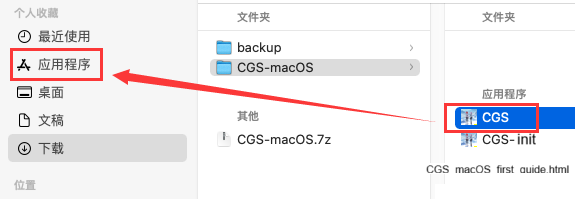
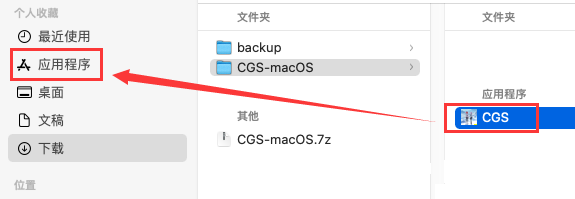
fix: use Qlocale instead of normal locale;mac releated

Changed region(s): [[0.7391, 0.8141, 1.0, 0.8744], [0.7983, 0.6633, 0.9461, 0.7538]]

diff --git a/assets/res/__init__.py b/assets/res/__init__.py
@@ -3,8 +3,9 @@
 import gettext
 import pathlib
 import hashlib
-import locale
 import types
+
+from PyQt5.QtCore import QLocale
 
 from assets.res.transfer import main as translation_compile
 
@@ -18,18 +19,14 @@ from assets.res.transfer import main as translation_compile
 
 
 def getUserLanguage():
-    """locale.getlocale() get `ISO 639-1`_`ISO 3166-1`
-    return `RFC 1766`"""
-    sys_lang, _ = locale.getlocale()
-    match sys_lang.split('_')[0]:
-        case 'Chinese (Simplified)' | 'zh_CN':
-            return 'zh-CN'
-        case _:
-            return 'en-US'
+    sys_lang = QLocale.system().name()
+    if _path.joinpath(f'locale/{sys_lang}.yml').exists():
+        return sys_lang
+    return 'en_US'
+
 
 _path = pathlib.Path(__file__).parent
 lang = getUserLanguage()
-# lang = 'en-US'
 
 
 def is_compiled():

diff --git a/docs/dev/i18n.md b/docs/dev/i18n.md
@@ -6,15 +6,23 @@ Translation hosting by [Weblate](https://hosted.weblate.org/engage/comicguispide
 
 ## Development
 
+检查当前语言环境 / Check lang env
+
+```python
+python3 -c "from PyQt5.QtCore import QLocale;print(QLocale.system().name())"
+```
+
+> [!Tip]  
+> 没找到对应语言编码的翻译文件时会默认使用 `en_US`  
+> If not yml file of your lang exists, default `en_US` will be used
+
 ### Ui
 
-翻译仅需处理单个 yaml 文件如 [`en_US.yaml`](https://github.com/jasoneri/ComicGUISpider/blob/GUI//assets/res/locale/en-US.yml)，  
-编译翻译的流程会在客户端使用时自动实现，除下文提及 Usage-ui 的一小点以外无需将精力放编译上  
-也可以阅读 [`transfer.py`](https://github.com/jasoneri/ComicGUISpider/blob/GUI//assets/res/transfer.py) 查看编译流程如何生成 res.mo
+翻译仅需处理单个 yaml 文件如 [`en_US.yaml`](https://github.com/jasoneri/ComicGUISpider/blob/GUI//assets/res/locale/en_US.yml)，  
+编译翻译的流程会在客户端使用时自动实现，无需将精力放编译上  
 
-Translation only needs to handle single yaml file such as [`en_US.yaml`](https://github.com/jasoneri/ComicGUISpider/blob/GUI//assets/res/locale/en-US.yml)  
-The compilation process of translation will be automatically implemented when the client is used, except for a small point mentioned in Usage-ui, there is no need to focus on compilation
-You can also read [`transfer.py`](https://github.com/jasoneri/ComicGUISpider/blob/GUI//assets/res/transfer.py) to see how the res.mo is generated
+Translation only needs to handle single yaml file such as [`en_US.yaml`](https://github.com/jasoneri/ComicGUISpider/blob/GUI//assets/res/locale/en_US.yml)  
+The compilation process of translation will be automatically implemented when the client is used, there is no need to focus on compilation
 
 ### Documentation
 
@@ -25,21 +33,6 @@ documents are stored in the `docs` directory, which will be made into `github pa
 Reference English storage path is `docs/locate/en/*`
 
 ## Usage
-
-### ui
-
-软件在开启时，会通过 [`assets/res/__init__.py`](https://github.com/jasoneri/ComicGUISpider/blob/GUI//assets/res/__init__.py) 中的 `getUserLanguage` 函数获取当前机器的语言如 `Chinese (Simplified)_China.utf8`（ISO 639-1_ISO 3166-1.encoding），
-检测转换成 RFC1766 标准如 `zh-CN` ，并加载 *.mo 模块进行语言切换。  
-
-> [!Tip] 若进行了语言开发  
-> 需在 `getUserLanguage` 中增加对应的 `RFC1766` 转换，否则默认使用 `en-US`  
-
-The software will get the current machine language such as `Chinese (Simplified)_China.utf8` (ISO 639-1_ISO 3166-1.encoding)
-through the `getUserLanguage` function in [`assets/res/__init__.py`](https://github.com/jasoneri/ComicGUISpider/blob/GUI//assets/res/__init__.py) when it starts,
-machine language will convert to the RFC1766 standard such as `zh-CN`, and load the corresponding *.mo module for language switching.  
-
-> [!Tip] If language development has been carried out  
-> you need to add the corresponding `RFC1766` conversion in `getUserLanguage`, otherwise the default `en-US` is used
 
 ### crawler
 

diff --git a/docs/deploy/mac-required-reading.md b/docs/deploy/mac-required-reading.md
@@ -15,8 +15,8 @@ python -c "import platform; print(platform.machine())"
 1. 英特尔i系，`x86_64` 架构（开发者虚拟机架构）  
 2. 苹果m系，`arm64` 架构
 
-`v2.2.3` 以后使用 github-action 自动使用 Platypus 打包，并优化了脚本命令，  
-理论上兼容两种芯片了，作为保留，下文中列出一些[应对`CGS.app`无法打开](#针对弹窗报错的尝试)的处理方案  
+`v2.2.3` 以后优化了脚本命令，理论上兼容两种芯片了，  
+作为保留，下文中列出一些[应对`CGS.app`无法打开](#针对弹窗报错的尝试)的处理方案  
 
 ## 📑 绿色包说明
 
@@ -26,18 +26,17 @@ macOS 仅需下载 `CGS-macOS`压缩包
 
 ```text
   CGS-macOS
-   ├── CGS.app                     # 既是 *主程序*，也可以当成代码目录文件夹打开，执行脚本 `scripts/deploy/launcher/mac/CGS.bash`  
-   |    ├── Contents
-   |         ├── Resources
-   |              ├── scripts      # 真实项目代码目录
-   └── CGS-init.app                # 执行脚本 `scripts/deploy/launcher/mac/init.bash`
+   └── CGS.app                     # 既是 *主程序*，也可以当成代码目录文件夹打开，执行脚本 `scripts/deploy/launcher/mac/CGS.bash`  
+        └── Contents
+             ├── Resources
+                  ├── scripts      # 真实项目代码目录
 ```
 
 :::
-::: warning macOS由于认证签名收费，app初次打开会有限制，正确操作如下
+::: warning macOS 由于认证签名收费，app 初次打开会有限制，正确操作如下
 
-1. 对任一app右键打开，报错不要丢垃圾篓，直接取消
-2. 再对同一app右键打开，此时弹出窗口有打开选项，能打开了
+1. 对 app 右键打开，报错不要丢垃圾篓，直接取消
+2. 再对 app 右键打开，此时弹出窗口有打开选项，能打开了
 3. 后续就能双击打开，不用右键打开了
 :::
 
@@ -55,7 +54,7 @@ macOS 仅需下载 `CGS-macOS`压缩包
 |:------:|:-------------------------------------------------------------------------------------------------------------------------------------------------------------------------------------------------------------------------------------------------------------------------------|
 | 1   | 每次解压后，将`CGS.app`移至应用程序<br/> ![图示](../assets/img/deploy/mac-app-move.jpg)|
 | 1.5   | （可选，需要在第2步前进行）由于macOS没微软雅黑字体，默认替换成`冬青黑体简体中文`<br/>不清楚是否每种macOS必有，留了后门替换，在 `scripts/deploy/launcher/mac/__init__.py` 的`font`值，有注释说明 |
-| 2   | 每次解压后，必须运行`CGS-init.app`检测/安装环境，<br/>⚠ _**注意新打开的终端窗口并根据提示操作**_ ⚠（对应第1.5步改字体可以反复执行第2步） |
+| 2   | 打开终端执行 初始化/环境 更新命令，<br>`bash /Applications/CGS.app/Contents/Resources/scripts/deploy/launcher/mac/init.bash`<br/>⚠ _**根据提示操作**_ （对应第1.5步改字体可以反复执行第2步） |
 
 ## 🔰 其他
 

diff --git a/README.md b/README.md
@@ -66,7 +66,8 @@
 
 ✅ ✨ 设置 rV 后，更改存储目录会联动更改 rV 的配置  
 ✅ ✨ 修复 hitomi 图源  
-✅ ✨ macOS: 修复locale环境中文识别; 打包程序的初始化/使用等问题  
+✅ ✨ 修复语言环境识别  
+✅ ✨ macOS-init.app 去除，改为终端自执行 bash 命令；另外 py 环境等发生改变，详情参考 [💻mac部署](https://jasoneri.github.io/ComicGUISpider/deploy/mac-required-reading)  
 ✅ 修复多开端口重复绑定导致的错误  
 ✅ 设置储存目录防呆  
 

diff --git a/docs/_github/release_notes.md b/docs/_github/release_notes.md
@@ -9,6 +9,6 @@
 
 ✅ ✨ 设置 rV 后，更改存储目录会联动更改 rV 的配置  
 ✅ ✨ 修复 hitomi 图源  
-✅ ✨ macOS: 修复locale环境中文识别; 打包程序的初始化/使用等问题  
+✅ ✨ macOS-init.app 去除，改为终端自执行 bash 命令；另外 py 环境等发生改变，详情参考 [💻mac部署](https://jasoneri.github.io/ComicGUISpider/deploy/mac-required-reading)  
 ✅ 修复多开端口重复绑定导致的错误  
 ✅ 设置储存目录防呆  
